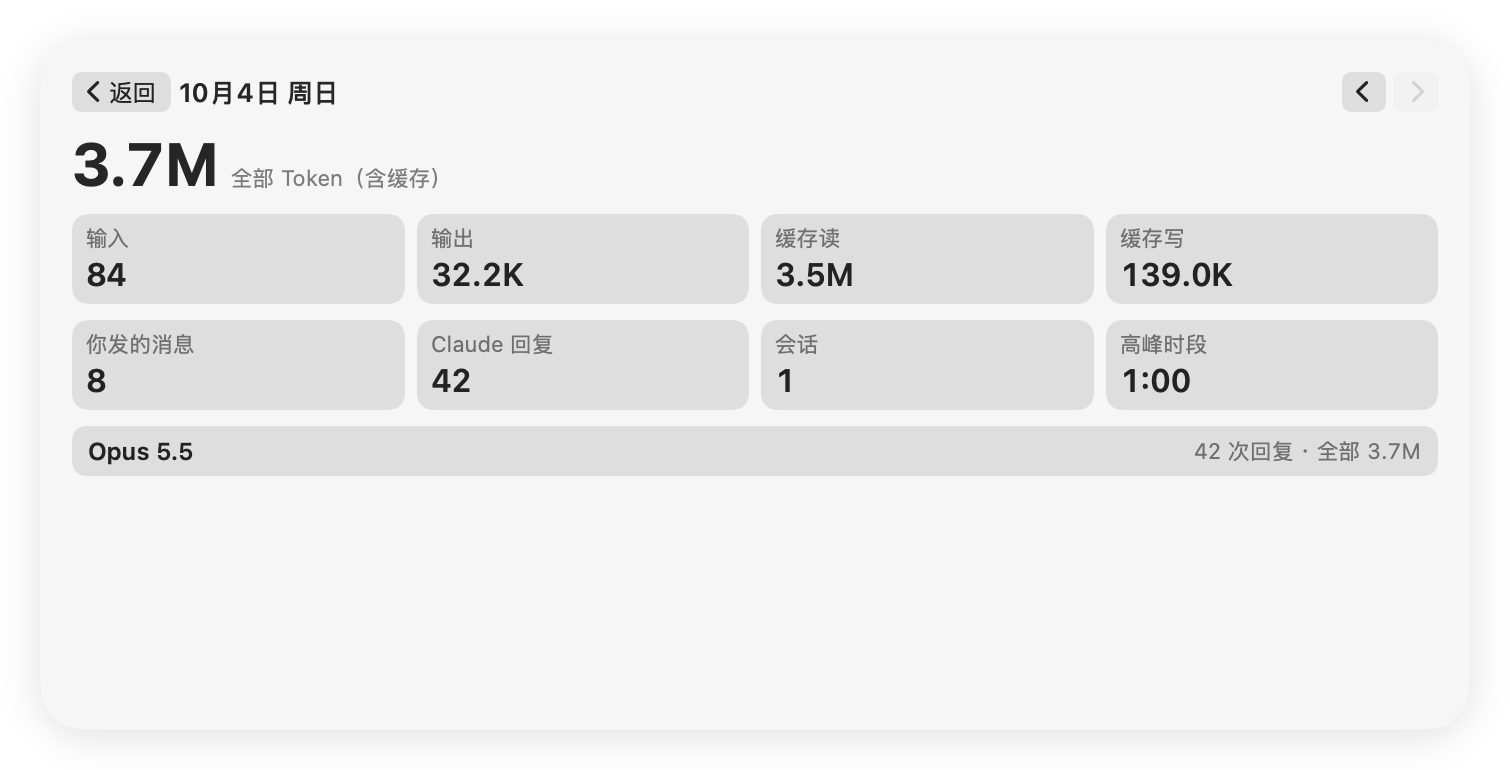
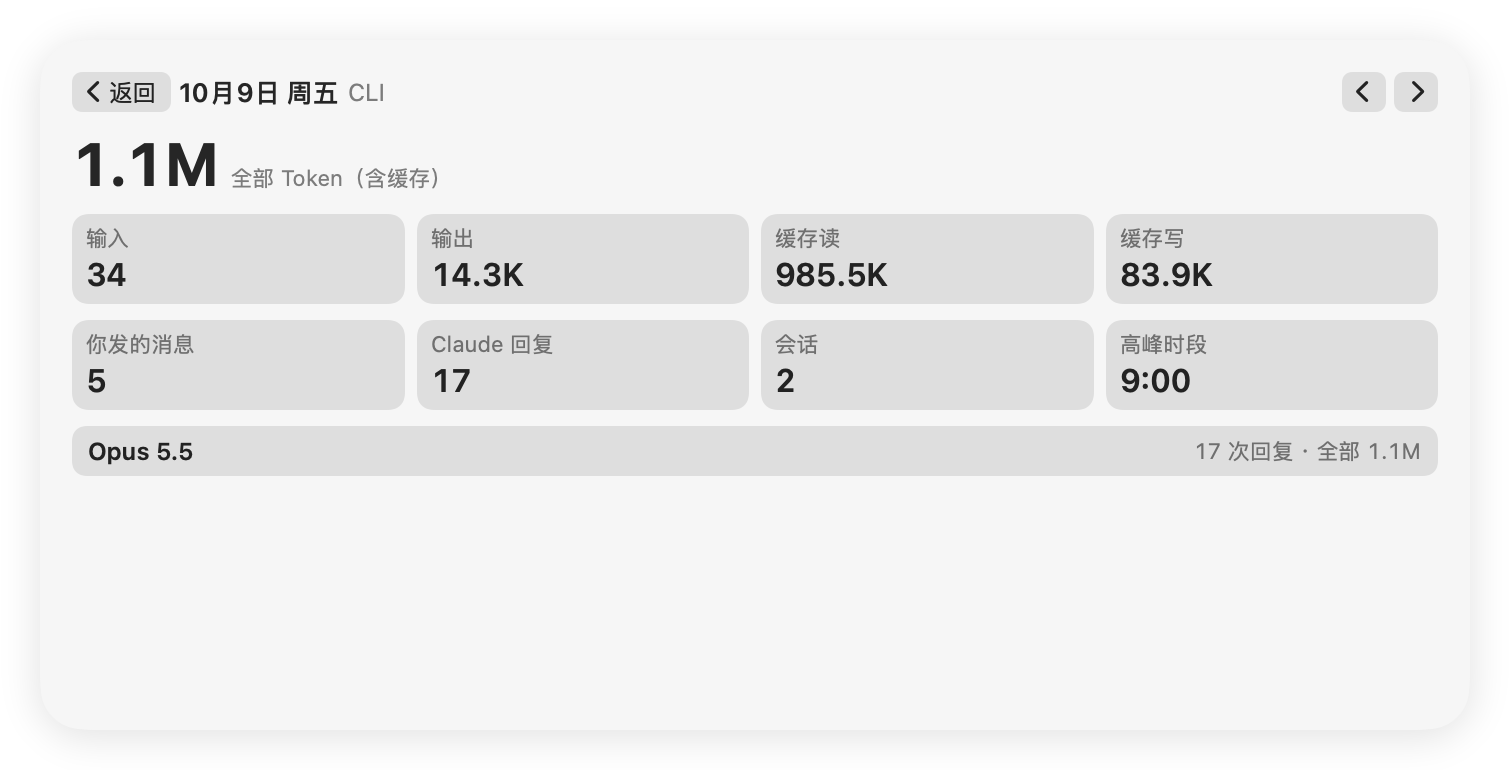
最大层按来源拆成 CLI 和桌面端，各自独立统计
- 缓存给每个会话文件打 source 标签（cache-v3），快照按来源分别聚合
- 表头最左加 CLI / 桌面端切换，小号点标题切换，详情页标出来源
- 剥掉文本块里的 system-reminder 再判断是否用户亲手发的话，桌面端不再漏算
- 表头统一字号 11 并禁止换行，大号不再把"30天"挤成两行
- 截图详情页改用最近有记录的一天，README 口径同步

diff --git a/App/StatsEngine.swift b/App/StatsEngine.swift
@@ -16,6 +16,7 @@ struct FileAgg: Codable {
     var size: Int
     var mtime: Double
     var isSubagent: Bool
+    var source: UsageSource?  // 一个会话文件只会有一种 entrypoint；认不出的来源为空，不计入
     var days: [String: DayAgg]
 }
 
@@ -26,7 +27,7 @@ enum StatsEngine {
         let dir = FileManager.default.urls(for: .applicationSupportDirectory, in: .userDomainMask)[0]
             .appendingPathComponent("ClaudeUsage")
         try? FileManager.default.createDirectory(at: dir, withIntermediateDirectories: true)
-        return dir.appendingPathComponent("cache-v2.json")
+        return dir.appendingPathComponent("cache-v3.json")
     }()
 
     static func loadCache() -> [String: FileAgg] {
@@ -50,7 +51,8 @@ enum StatsEngine {
             alive.insert(path)
             if let c = cache[path], c.size == size, c.mtime == mtime { continue }
             let sub = url.pathComponents.contains("subagents")
-            cache[path] = FileAgg(size: size, mtime: mtime, isSubagent: sub, days: parse(url, isSubagent: sub))
+            let (source, days) = parse(url, isSubagent: sub)
+            cache[path] = FileAgg(size: size, mtime: mtime, isSubagent: sub, source: source, days: days)
         }
         for k in cache.keys where !alive.contains(k) { cache[k] = nil }
     }
@@ -65,9 +67,10 @@ enum StatsEngine {
 
     static func dayKey(_ d: Date) -> String { dayFmt.string(from: d) }
 
-    static func parse(_ url: URL, isSubagent: Bool) -> [String: DayAgg] {
-        guard let data = try? Data(contentsOf: url) else { return [:] }
+    static func parse(_ url: URL, isSubagent: Bool) -> (UsageSource?, [String: DayAgg]) {
+        guard let data = try? Data(contentsOf: url) else { return (nil, [:]) }
         var days: [String: DayAgg] = [:]
+        var source: UsageSource?
         var seen = Set<String>()
         let userTag = Data(#""type":"user""#.utf8), asstTag = Data(#""type":"assistant""#.utf8)
         for line in data.split(separator: 0x0A) {
@@ -75,11 +78,11 @@ enum StatsEngine {
             guard isAsst || line.range(of: userTag) != nil,
                   let o = try? JSONSerialization.jsonObject(with: line) as? [String: Any],
                   let type = o["type"] as? String, type == "user" || type == "assistant",
-                  // 只统计 Claude Code CLI；桌面版 Code 也写到这里，entrypoint 为 claude-desktop
-                  (o["entrypoint"] as? String)?.contains("cli") ?? true,
+                  let src = UsageSource(entrypoint: o["entrypoint"] as? String ?? "cli"), src == source ?? src,
                   let ts = o["timestamp"] as? String,
                   let date = isoFrac.date(from: ts) ?? iso.date(from: ts),
                   let msg = o["message"] as? [String: Any] else { continue }
+            source = src
             let key = dayKey(date)
             let hour = Calendar.current.component(.hour, from: date)
             if type == "assistant" {
@@ -102,7 +105,7 @@ enum StatsEngine {
                 days[key]!.hours[hour] += 1
             }
         }
-        return days
+        return (source, days)
     }
 
     // 只算用户亲手发的话：排除工具结果、斜杠命令、系统注入、中断标记
@@ -114,6 +117,8 @@ enum StatsEngine {
             text = blocks.compactMap { $0["type"] as? String == "text" ? $0["text"] as? String : nil }.joined()
             if text.isEmpty && blocks.contains(where: { $0["type"] as? String == "image" }) { return true }
         }
+        // 桌面端会把 system-reminder 和用户的话塞进同一个文本块，先剥掉再判断
+        text = text.replacingOccurrences(of: "<system-reminder>.*?</system-reminder>", with: "", options: .regularExpression)
         let t = text.trimmingCharacters(in: .whitespacesAndNewlines)
         return !t.isEmpty && !t.hasPrefix("<") && !t.hasPrefix("[Request interrupted")
     }
@@ -128,6 +133,14 @@ enum StatsEngine {
     }
 
     static func snapshot(from cache: [String: FileAgg], now: Date = Date()) -> UsageSnapshot {
+        var sources: [UsageSource: SourceStats] = [:]
+        for s in UsageSource.allCases {
+            sources[s] = stats(cache.values.filter { $0.source == s }, now: now)
+        }
+        return UsageSnapshot(generatedAt: now, sources: sources)
+    }
+
+    static func stats(_ files: [FileAgg], now: Date) -> SourceStats {
         let cal = Calendar.current
         let today = cal.startOfDay(for: now)
         var ranges: [UsageRange: RangeStats] = [:]
@@ -137,7 +150,7 @@ enum StatsEngine {
             var hours = [Int](repeating: 0, count: 24)
             var activeDays = Set<String>()
             var models: [String: ModelStats] = [:]
-            for f in cache.values {
+            for f in files {
                 var active = false
                 for (day, a) in f.days where day >= cutoff {
                     let n = a.prompts + a.replies
@@ -162,7 +175,7 @@ enum StatsEngine {
             ranges[r] = s
         }
         var det: [String: DayDetail] = [:], dHours: [String: [Int]] = [:], dModels: [String: [String: ModelStats]] = [:]
-        for f in cache.values {
+        for f in files {
             for (d, a) in f.days where a.prompts + a.replies > 0 {
                 det[d, default: DayDetail()].prompts += a.prompts
                 det[d]!.replies += a.replies
@@ -184,6 +197,6 @@ enum StatsEngine {
             return HeatDay(date: k, messages: x.map { $0.prompts + $0.replies } ?? 0,
                            tokens: x?.tokens.main ?? 0, allTokens: x?.tokens.all ?? 0, detail: x)
         }
-        return UsageSnapshot(generatedAt: now, ranges: ranges, heatmap: heat)
+        return SourceStats(ranges: ranges, heatmap: heat)
     }
 }

diff --git a/Shared/UsageView.swift b/Shared/UsageView.swift
@@ -5,17 +5,20 @@ enum UsageSize { case small, medium, large }
 
 struct UsageView: View {
     let snapshot: UsageSnapshot?
+    let source: UsageSource
     let tab: UsageTab
     let range: UsageRange
     var size: UsageSize = .large
     var selectedDay: String? = nil
 
-    private var picked: HeatDay? { snapshot?.heatmap.first { $0.date == selectedDay } }
-    private var heatmap: Heatmap { Heatmap(days: snapshot?.heatmap ?? []) }
-    private var today: String { snapshot?.heatmap.last?.date ?? "" }
+    private var data: SourceStats { snapshot?.sources[source] ?? SourceStats() }
+    private var picked: HeatDay? { data.heatmap.first { $0.date == selectedDay } }
+    private var heatmap: Heatmap { Heatmap(days: data.heatmap) }
+    private var today: String { data.heatmap.last?.date ?? "" }
 
     private func neighbor(_ d: HeatDay, _ step: Int) -> HeatDay? {
-        guard let days = snapshot?.heatmap, let i = days.firstIndex(where: { $0.date == d.date }),
+        let days = data.heatmap
+        guard let i = days.firstIndex(where: { $0.date == d.date }),
               days.indices.contains(i + step) else { return nil }
         return days[i + step]
     }
@@ -38,6 +41,7 @@ struct UsageView: View {
                 .buttonStyle(.plain)
                 Text(Fmt.day(d.date, weekday: size != .small)).font(.system(size: f + 1, weight: .semibold))
                     .lineLimit(1).minimumScaleFactor(0.7)
+                if size != .small { Text(source.label).font(.system(size: f)).foregroundStyle(.secondary) }
                 Spacer(minLength: 0)
                 arrow("chevron.left", neighbor(d, -1), f)
                 arrow("chevron.right", neighbor(d, 1), f)
@@ -102,7 +106,7 @@ struct UsageView: View {
         .opacity(target == nil ? 0.3 : 1)
     }
 
-    private var stats: RangeStats { snapshot?.ranges[size == .small ? .all : range] ?? RangeStats() }
+    private var stats: RangeStats { data.ranges[size == .small ? .all : range] ?? RangeStats() }
 
     var body: some View {
         if snapshot == nil {
@@ -120,7 +124,15 @@ struct UsageView: View {
 
     private var small: some View {
         VStack(alignment: .leading, spacing: 4) {
-            Text("Claude Code · 全部").font(.system(size: 11, weight: .semibold)).foregroundStyle(.secondary)
+            // 小尺寸放不下表头：点标题在 CLI 和桌面端之间切换
+            Button(intent: SelectSourceIntent(source.other)) {
+                HStack(spacing: 3) {
+                    Text("\(source.label) · 全部")
+                    Image(systemName: "arrow.left.arrow.right").font(.system(size: 8, weight: .semibold))
+                }
+                .font(.system(size: 11, weight: .semibold)).foregroundStyle(.secondary)
+            }
+            .buttonStyle(.plain)
             Text(Fmt.compact(stats.tokens.main)).font(.system(size: 28, weight: .bold)).monospacedDigit()
                 .minimumScaleFactor(0.6).lineLimit(1)
             Text("Token（输入+输出）").font(.system(size: 10)).foregroundStyle(.secondary)
@@ -166,6 +178,10 @@ struct UsageView: View {
 
     private func header(font: CGFloat) -> some View {
         HStack(spacing: 2) {
+            ForEach(UsageSource.allCases, id: \.self) { s in
+                pill(s.label, source == s, SelectSourceIntent(s), font)
+            }
+            Spacer()
             pill("概览", tab == .overview, SelectTabIntent(.overview), font)
             pill("模型", tab == .models, SelectTabIntent(.models), font)
             Spacer()
@@ -177,7 +193,7 @@ struct UsageView: View {
 
     private var full: some View {
         VStack(alignment: .leading, spacing: 8) {
-            header(font: 12)
+            header(font: 11)
             if tab == .overview {
                 overview
             } else {
@@ -190,6 +206,7 @@ struct UsageView: View {
         Button(intent: intent) {
             Text(title)
                 .font(.system(size: size, weight: on ? .semibold : .regular))
+                .lineLimit(1).fixedSize()
                 .foregroundStyle(on ? .primary : .secondary)
                 .padding(.horizontal, 8).padding(.vertical, 3)
                 .background(RoundedRectangle(cornerRadius: 6).fill(on ? AnyShapeStyle(.quaternary) : AnyShapeStyle(.clear)))

diff --git a/App/main.swift b/App/main.swift
@@ -26,20 +26,24 @@ if args.contains("--once") || args.contains("--dump") || args.contains("--render
     if let i = args.firstIndex(of: "--render"), i + 1 < args.count {
         MainActor.assumeIsolated {
             let snap = UsageSnapshot.load()
-            let today = StatsEngine.dayKey(Date())
-            let shots: [(UsageTab, CGSize, UsageSize, String?, String)] = [
-                (.overview, CGSize(width: 715, height: 345), .large, nil, "extra-large"),
-                (.overview, CGSize(width: 715, height: 345), .large, today, "extra-large-day"),
-                (.overview, CGSize(width: 345, height: 345), .large, nil, "large"),
-                (.overview, CGSize(width: 345, height: 345), .large, today, "large-day"),
-                (.models, CGSize(width: 345, height: 345), .large, nil, "large-models"),
-                (.overview, CGSize(width: 345, height: 165), .medium, nil, "medium"),
-                (.overview, CGSize(width: 345, height: 165), .medium, today, "medium-day"),
-                (.overview, CGSize(width: 165, height: 165), .small, nil, "small"),
-                (.overview, CGSize(width: 165, height: 165), .small, today, "small-day")]
-            for (tab, size, kind, day, suffix) in shots {
+            // 详情页截图用最近一个有记录的日子，今天可能还没用过
+            let day = snap?.sources[.cli]?.heatmap.last { $0.detail != nil }?.date ?? StatsEngine.dayKey(Date())
+            let shots: [(UsageSource, UsageTab, CGSize, UsageSize, String?, String)] = [
+                (.cli, .overview, CGSize(width: 715, height: 345), .large, nil, "extra-large"),
+                (.cli, .overview, CGSize(width: 715, height: 345), .large, day, "extra-large-day"),
+                (.cli, .overview, CGSize(width: 345, height: 345), .large, nil, "large"),
+                (.cli, .overview, CGSize(width: 345, height: 345), .large, day, "large-day"),
+                (.cli, .models, CGSize(width: 345, height: 345), .large, nil, "large-models"),
+                (.cli, .overview, CGSize(width: 345, height: 165), .medium, nil, "medium"),
+                (.desktop, .overview, CGSize(width: 345, height: 165), .medium, nil, "medium-desktop"),
+                (.cli, .models, CGSize(width: 345, height: 165), .medium, nil, "medium-models"),
+                (.cli, .overview, CGSize(width: 345, height: 165), .medium, day, "medium-day"),
+                (.cli, .overview, CGSize(width: 165, height: 165), .small, nil, "small"),
+                (.desktop, .overview, CGSize(width: 165, height: 165), .small, nil, "small-desktop"),
+                (.cli, .overview, CGSize(width: 165, height: 165), .small, day, "small-day")]
+            for (source, tab, size, kind, day, suffix) in shots {
                 // 截图用实色卡片，不要桌面上的玻璃透明效果
-                let view = UsageView(snapshot: snap, tab: tab, range: .all, size: kind, selectedDay: day)
+                let view = UsageView(snapshot: snap, source: source, tab: tab, range: .all, size: kind, selectedDay: day)
                     .padding(16).frame(width: size.width, height: size.height)
                     .background(RoundedRectangle(cornerRadius: 22, style: .continuous).fill(Color(white: 0.965))
                         .shadow(color: .black.opacity(0.12), radius: 10, y: 3))

diff --git a/Widget/UsageWidget.swift b/Widget/UsageWidget.swift
@@ -4,6 +4,7 @@ import SwiftUI
 struct UsageEntry: TimelineEntry {
     let date: Date
     let snapshot: UsageSnapshot?
+    let source: UsageSource
     let tab: UsageTab
     let range: UsageRange
     let selectedDay: String?
@@ -16,7 +17,7 @@ struct Provider: TimelineProvider {
         completion(Timeline(entries: [entry()], policy: .after(Date().addingTimeInterval(15 * 60))))
     }
     private func entry() -> UsageEntry {
-        UsageEntry(date: Date(), snapshot: UsageSnapshot.load(), tab: Shared.tab, range: Shared.range, selectedDay: Shared.selectedDay)
+        UsageEntry(date: Date(), snapshot: UsageSnapshot.load(), source: Shared.source, tab: Shared.tab, range: Shared.range, selectedDay: Shared.selectedDay)
     }
 }
 
@@ -26,7 +27,7 @@ struct UsageWidget: Widget {
             FamilyView(entry: e).containerBackground(.fill.tertiary, for: .widget)
         }
         .configurationDisplayName("Claude Code 用量小组件")
-        .description("会话、消息、token 用量和每日活跃热力图")
+        .description("CLI 和桌面端分开统计：会话、消息、token 用量和每日活跃热力图")
         .supportedFamilies([.systemSmall, .systemMedium, .systemLarge, .systemExtraLarge])
     }
 }
@@ -36,7 +37,7 @@ struct FamilyView: View {
     @Environment(\.widgetFamily) var family
     var body: some View {
         let size: UsageSize = family == .systemSmall ? .small : family == .systemMedium ? .medium : .large
-        UsageView(snapshot: entry.snapshot, tab: entry.tab, range: entry.range, size: size, selectedDay: entry.selectedDay)
+        UsageView(snapshot: entry.snapshot, source: entry.source, tab: entry.tab, range: entry.range, size: size, selectedDay: entry.selectedDay)
     }
 }
 

diff --git a/Shared/Models.swift b/Shared/Models.swift
@@ -11,6 +11,17 @@ enum Shared {
     static var defaults: UserDefaults { .standard }
 }
 
+// 最大层：Claude Code CLI 和 Claude 桌面端的 Code 功能各算各的
+enum UsageSource: String, CaseIterable, Codable, CodingKeyRepresentable, Sendable {
+    case cli, desktop
+    var label: String { switch self { case .cli: "CLI"; case .desktop: "桌面端" } }
+    var other: UsageSource { self == .cli ? .desktop : .cli }
+    init?(entrypoint: String) {
+        if entrypoint.contains("cli") { self = .cli }
+        else if entrypoint == "claude-desktop" { self = .desktop }
+        else { return nil }
+    }
+}
 enum UsageTab: String, CaseIterable, Codable, Sendable { case overview, models }
 enum UsageRange: String, CaseIterable, Codable, CodingKeyRepresentable, Sendable {
     case all, d30, d7
@@ -59,10 +70,14 @@ struct DayDetail: Codable, Sendable {
     var models: [ModelStats] = []
 }
 
+struct SourceStats: Codable, Sendable {
+    var ranges: [UsageRange: RangeStats] = [:]
+    var heatmap: [HeatDay] = []
+}
+
 struct UsageSnapshot: Codable, Sendable {
     var generatedAt: Date
-    var ranges: [UsageRange: RangeStats]
-    var heatmap: [HeatDay]
+    var sources: [UsageSource: SourceStats]
 
     static var lastError = ""
     static func load() -> UsageSnapshot? {

diff --git a/Shared/UsageIntents.swift b/Shared/UsageIntents.swift
@@ -1,6 +1,17 @@
 import AppIntents
 import WidgetKit
 
+struct SelectSourceIntent: AppIntent {
+    static var title: LocalizedStringResource = "切换来源"
+    @Parameter(title: "来源") var source: String
+    init() {}
+    init(_ s: UsageSource) { source = s.rawValue }
+    func perform() async throws -> some IntentResult {
+        Shared.defaults.set(source, forKey: "source")
+        return .result()
+    }
+}
+
 struct SelectTabIntent: AppIntent {
     static var title: LocalizedStringResource = "切换页面"
     @Parameter(title: "页面") var tab: String
@@ -37,6 +48,7 @@ struct SetDayIntent: AppIntent {
 
 extension Shared {
     static var selectedDay: String? { defaults.string(forKey: "day") }
+    static var source: UsageSource { UsageSource(rawValue: defaults.string(forKey: "source") ?? "") ?? .cli }
     static var tab: UsageTab { UsageTab(rawValue: defaults.string(forKey: "tab") ?? "") ?? .overview }
     static var range: UsageRange { UsageRange(rawValue: defaults.string(forKey: "range") ?? "") ?? .all }
 }

diff --git a/README.en.md b/README.en.md
@@ -2,7 +2,7 @@
 
 <h1 align="center">Claude Code Usage Widget</h1>
 
-<p align="center">A native macOS desktop widget that shows your Claude Code CLI usage stats</p>
+<p align="center">A native macOS desktop widget that shows your Claude Code usage stats, CLI and desktop app side by side</p>
 
 <p align="center"><a href="README.md">中文</a> · English</p>
 
@@ -10,8 +10,9 @@
 
 ## What it does
 
-A WidgetKit desktop widget with a layout modeled on the usage panel in the Claude desktop app. All data comes from the Claude Code CLI session logs in `~/.claude/projects` on your Mac. Nothing goes over the network or gets uploaded.
+A WidgetKit desktop widget with a layout modeled on the usage panel in the Claude desktop app. All data comes from the Claude Code session logs in `~/.claude/projects` on your Mac. Nothing goes over the network or gets uploaded.
 
+- **Source**: CLI and the desktop app (the Code feature in the Claude desktop app) are tracked separately. Switch with the leftmost pills in the header, or tap the title on the small size.
 > The widget UI is currently in Chinese only.
 
 - **Overview**: sessions, tokens (input + output), all tokens (including cache), active days, peak hour, most-used model
@@ -35,7 +36,7 @@ A WidgetKit desktop widget with a layout modeled on the usage panel in the Claud
 
 ## How usage is counted
 
-- **Claude Code CLI only**: the Code feature in the Claude desktop app also writes logs to `~/.claude/projects` (with `entrypoint` set to `claude-desktop`). Those are excluded.
+- **CLI and desktop kept apart**: each log line carries an `entrypoint`; `cli` (and `sdk-cli`) count as CLI, `claude-desktop` counts as desktop. Each source has its own overview, model breakdown, heatmap and day details. They are never summed.
 - **Deduplicated per reply**: a single model reply is written as several lines, one per content block, and each line carries the same usage (about 2.2× duplication in practice). Usage is deduplicated by `message.id`, so the numbers are lower than a naive sum.
 - **Tokens (input + output)** exclude cache. **All tokens** = input + output + cache read + cache write, and are mostly cache reads.
 - **Sessions**: session files that contain a conversation. Subagent logs count toward tokens but not as separate sessions.

diff --git a/README.md b/README.md
@@ -2,7 +2,7 @@
 
 <h1 align="center">Claude Code Usage Widget</h1>
 
-<p align="center">把 Claude Code CLI 的使用统计放到 macOS 桌面上的原生小组件</p>
+<p align="center">把 Claude Code（CLI 和桌面端）的使用统计放到 macOS 桌面上的原生小组件</p>
 
 <p align="center">中文 · <a href="README.en.md">English</a></p>
 
@@ -10,8 +10,9 @@
 
 ## 它能做什么
 
-一个 WidgetKit 桌面小组件，布局参考 Claude 桌面版的用量面板，数据全部来自本机 `~/.claude/projects` 里的 Claude Code CLI 会话记录，不联网、不上传。
+一个 WidgetKit 桌面小组件，布局参考 Claude 桌面版的用量面板，数据全部来自本机 `~/.claude/projects` 里的 Claude Code 会话记录，不联网、不上传。
 
+- **来源**：CLI 和桌面端（Claude 桌面版的 Code 功能）分开统计，表头最左边切换；小号点标题切换
 - **概览**：会话数、Token（输入+输出）、全部 Token（含缓存）、活跃天数、高峰时段、最常用模型
 - **模型**：按模型拆开输入 / 输出 / 缓存读 / 缓存写四类 token
 - **时间范围**：全部 / 30 天 / 7 天，点一下切换
@@ -33,7 +34,7 @@
 
 ## 统计口径
 
-- **只算 Claude Code CLI**：Claude 桌面版的 Code 功能也会往 `~/.claude/projects` 写记录（`entrypoint` 为 `claude-desktop`），这些会被排除。
+- **CLI 和桌面端分开**：按每条记录的 `entrypoint` 区分，`cli`（含 `sdk-cli`）归 CLI，`claude-desktop` 归桌面端，两边各有自己的概览、模型、热力图和每日详情，互不相加。
 - **按回复去重**：同一次模型回复会按内容块拆成多行写入记录，每行都带同一份 usage（实测平均重复约 2.2 次）。这里按 `message.id` 去重，所以数字会比直接累加的小。
 - **Token（输入+输出）**：不含缓存。**全部 Token**：输入 + 输出 + 缓存读 + 缓存写，几乎都是缓存读取。
 - **会话**：有过对话的会话文件数（子 agent 的记录算 token，不单独算会话）。
